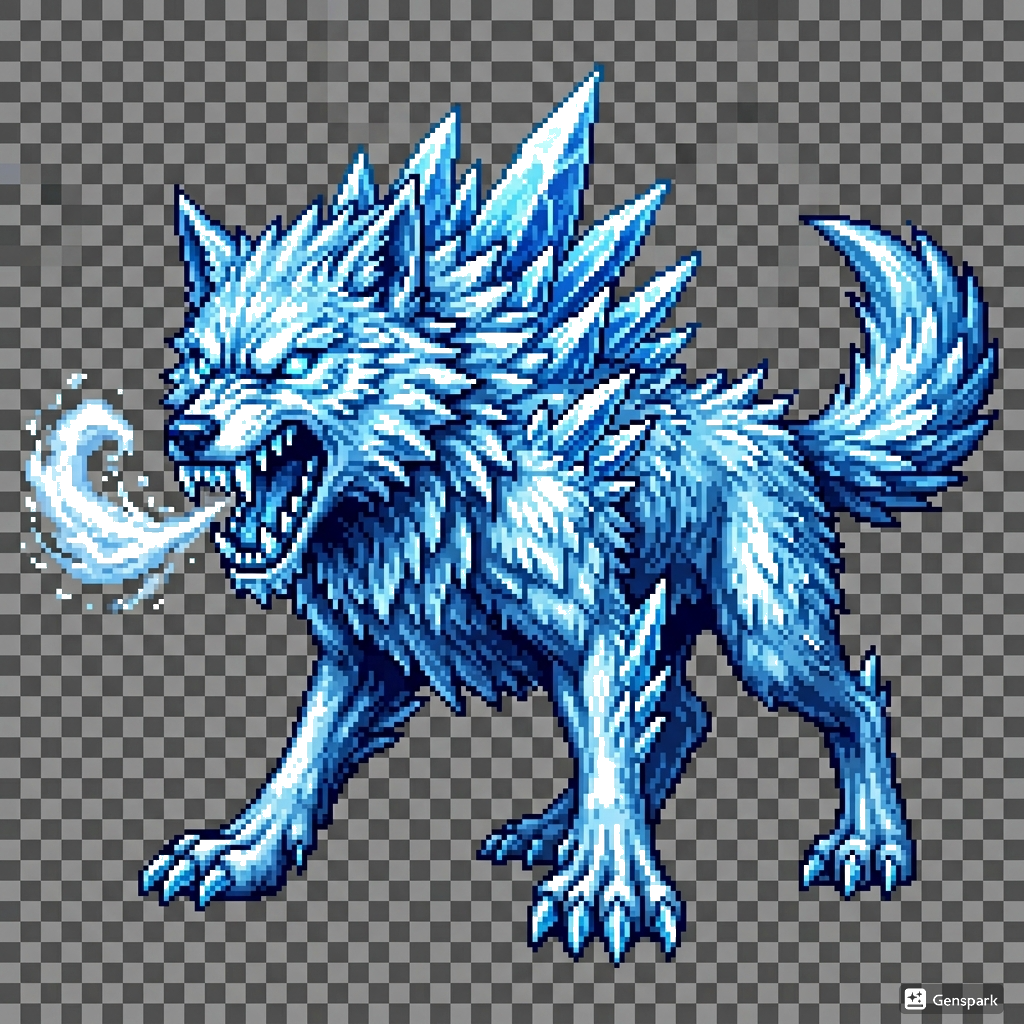
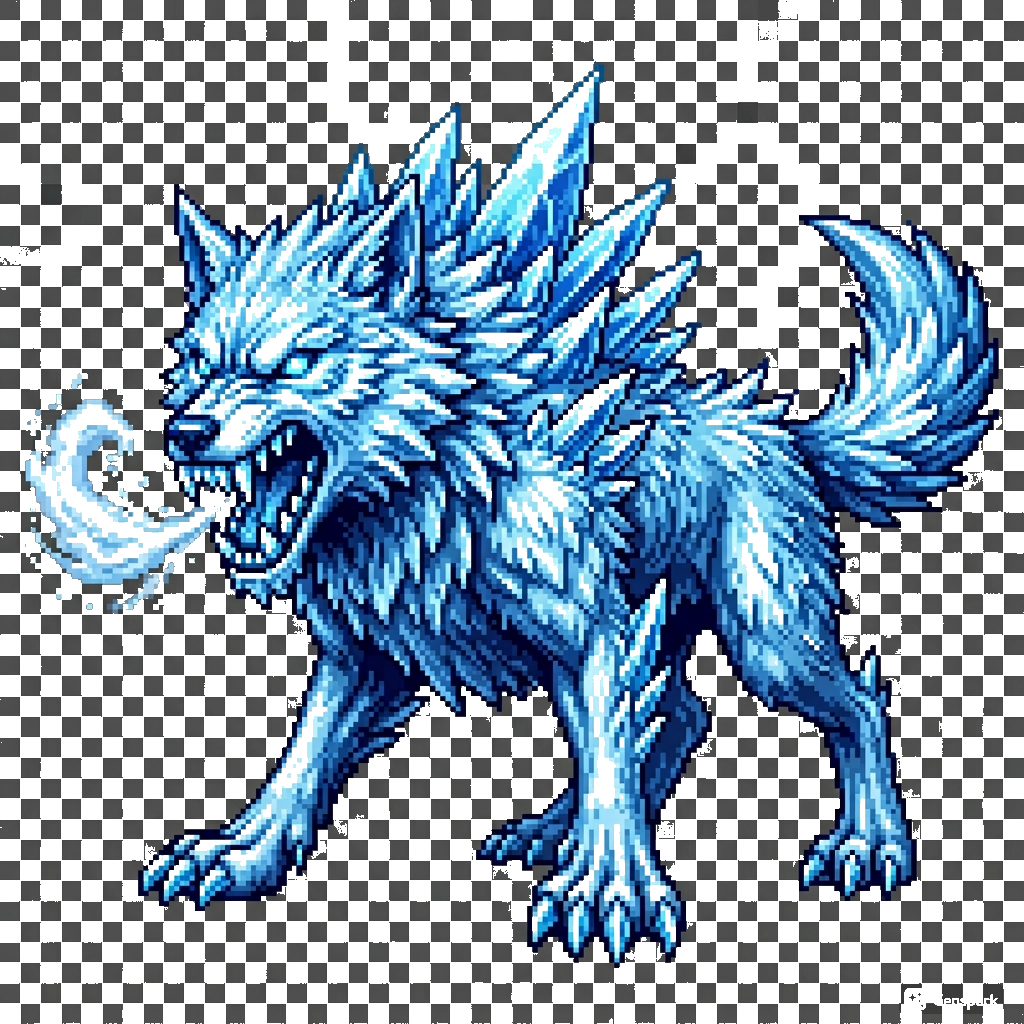
fix: ice wolf bg removal, field edge gap
- Ice Wolf: flood-fill removed 353k checker/gray pixels from edges
- CSS: canvas background-color set to #2d5a27 (field green)
  prevents gray gaps at world edges when camera view exceeds map

diff --git a/style.css b/style.css
@@ -1,3 +1,3 @@
 * { margin: 0; padding: 0; box-sizing: border-box; }
 html, body { width: 100%; height: 100%; overflow: hidden; background: #000; }
-#gameCanvas { display: block; width: 100%; height: 100%; image-rendering: pixelated; }
+#gameCanvas { display: block; width: 100%; height: 100%; image-rendering: pixelated; background-color: #2d5a27; }
